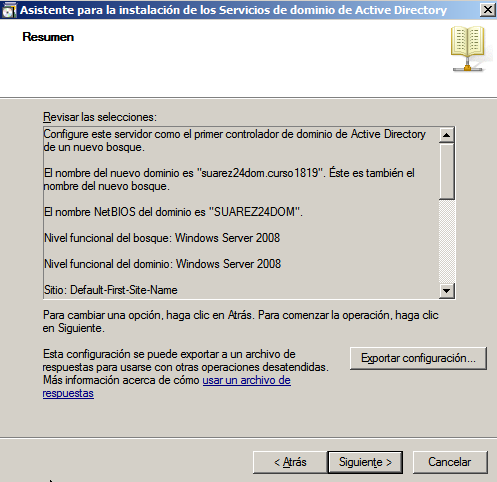
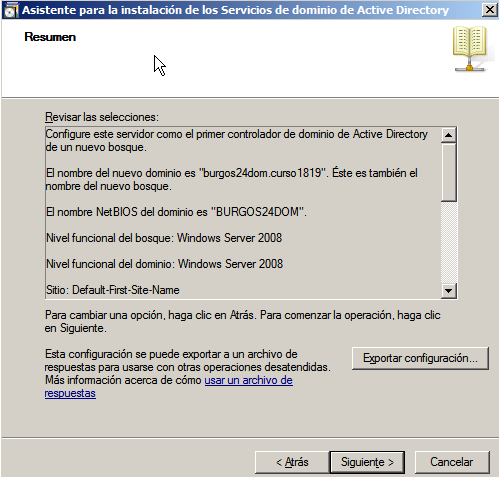
In process

diff --git a/TercerTrimestre/Unidad5/A1_PDC-Windows-Server/README.md b/TercerTrimestre/Unidad5/A1_PDC-Windows-Server/README.md
@@ -18,7 +18,7 @@
 * Se inicia el asistente de configuración de los servicios del dominio de AD (Active Directory). Ponemos los siguientes valores:
   * No marcamos *`Modo avanzado`*
   * Marcamos *`Crear un dominio nuevo de un bosque nuevo`*
-  * FQDN del dominio raíz del bosque: *`suarez24dom.curso1819`*
+  * FQDN del dominio raíz del bosque: *`burgos24dom.curso1819`*
   * Nivel funcional del bosque: *`Windows Server 2008`*
   * Dejamos marcado *`Servidor DNS`*
   * Carpetas de almacenamiento *`Dejar valores por defecto`*
@@ -38,7 +38,7 @@
 
 ![Comprobación DNS gráfica](./images/DNS.png)
 
-* Abrir una consola y ejecutar `nslookup suarez24dom.curso1819`. Debe aparecer la IP de nuestro servidor PDC.
+* Abrir una consola y ejecutar `nslookup burgos24dom.curso1819`. Debe aparecer la IP de nuestro servidor PDC.
 
 ![Comprobación DNS comandos](./images/DNS-consola.png)
 
